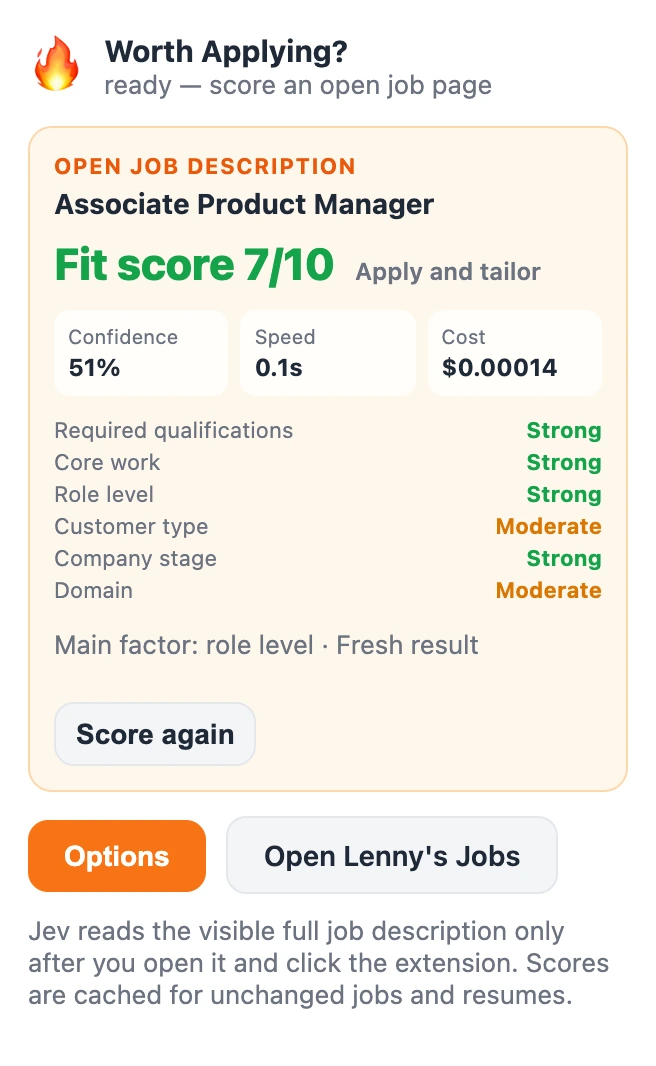
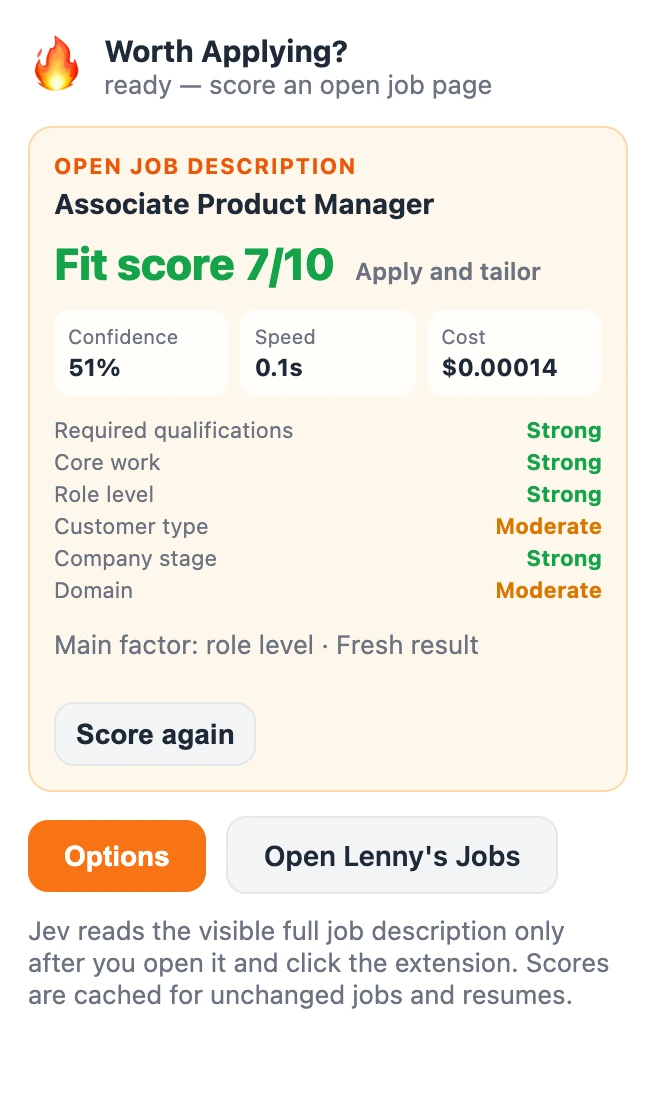
Load the hidden popup screenshots after the page settles
The two samples you only see after a click were about 145 KB of the first load. All three shots now share one height, so the frame never resizes.

Claude-Session: https://claude.ai/code/session_016iJaZcnqnPpKMPZEUBNkD9

Changed region(s): [[0.061, 0.031, 0.9451, 0.6191], [0.0305, 0.6501, 0.9756, 0.9597]]

diff --git a/site/index.html b/site/index.html
@@ -86,9 +86,9 @@
         </div>
         <!-- Screenshots of the real popup. Regenerate with scripts/popup-shots.mjs after changing the popup. -->
         <div class="popup-frame">
-          <img class="shot is-on" data-shot="apm" src="popup-apm.webp" width="328" height="533" fetchpriority="high" alt="The Worth Applying? popup on an Associate Product Manager posting: fit score 7/10, apply and tailor. Confidence 51%, speed 0.1s, cost $0.00014. Required qualifications, core work, role level, and company stage are strong. Customer type and domain are moderate. Main factor: role level.">
-          <img class="shot" data-shot="growth" src="popup-growth.webp" width="328" height="549" aria-hidden="true" alt="The Worth Applying? popup on a Product Manager, Growth Strategy posting: fit score 4/10, apply if interested. Confidence 82%, speed 0.1s, cost $0.00015. Required qualifications are weak. The other five parts are moderate. Main factor: required qualifications.">
-          <img class="shot" data-shot="engineer" src="popup-engineer.webp" width="328" height="549" aria-hidden="true" alt="The Worth Applying? popup on a Lead, Software Engineer posting: fit score 2/10, deprioritize. Confidence 98%, speed 0.1s, cost $0.00018. Required qualifications, core work, role level, and domain are weak. Customer type and company stage are moderate. Main factor: required qualifications.">
+          <img class="shot is-on" data-shot="apm" src="popup-apm.webp" width="328" height="549" fetchpriority="high" alt="The Worth Applying? popup on an Associate Product Manager posting: fit score 7/10, apply and tailor. Confidence 51%, speed 0.1s, cost $0.00014. Required qualifications, core work, role level, and company stage are strong. Customer type and domain are moderate. Main factor: role level.">
+          <img class="shot" data-shot="growth" data-src="popup-growth.webp" width="328" height="549" aria-hidden="true" alt="The Worth Applying? popup on a Product Manager, Growth Strategy posting: fit score 4/10, apply if interested. Confidence 82%, speed 0.1s, cost $0.00015. Required qualifications are weak. The other five parts are moderate. Main factor: required qualifications.">
+          <img class="shot" data-shot="engineer" data-src="popup-engineer.webp" width="328" height="549" aria-hidden="true" alt="The Worth Applying? popup on a Lead, Software Engineer posting: fit score 2/10, deprioritize. Confidence 98%, speed 0.1s, cost $0.00018. Required qualifications, core work, role level, and domain are weak. Customer type and company stage are moderate. Main factor: required qualifications.">
         </div>
         <div class="scale" aria-hidden="true" style="--s: 7">
           <div class="scale-bar"><span></span><span></span><span></span><span></span><span></span><span></span><span></span><span></span><span></span><span></span></div>

diff --git a/site/app.js b/site/app.js
@@ -11,7 +11,18 @@ const shots = [...document.querySelectorAll("[data-shot]")];
 const buttons = [...document.querySelectorAll("[data-sample]")];
 const live = document.querySelector("[data-live]");
 
+// The other two screenshots load once the page settles, so they don't slow the first paint.
+function loadShots() {
+  for (const shot of shots) {
+    if (!shot.dataset.src) continue;
+    shot.src = shot.dataset.src;
+    delete shot.dataset.src;
+  }
+}
+addEventListener("load", () => ("requestIdleCallback" in window ? requestIdleCallback(loadShots) : setTimeout(loadShots, 200)));
+
 function select(button) {
+  loadShots();
   const score = Number(button.dataset.score);
   for (const other of buttons) other.setAttribute("aria-pressed", String(other === button));
   for (const shot of shots) {
